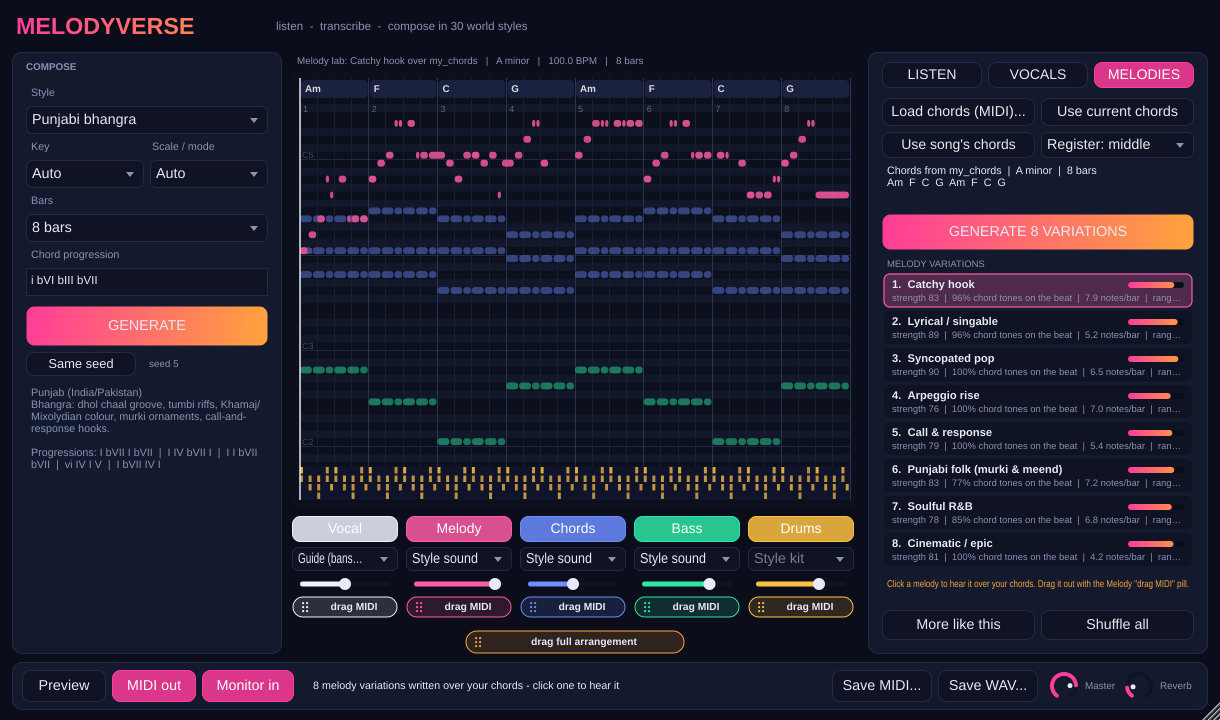
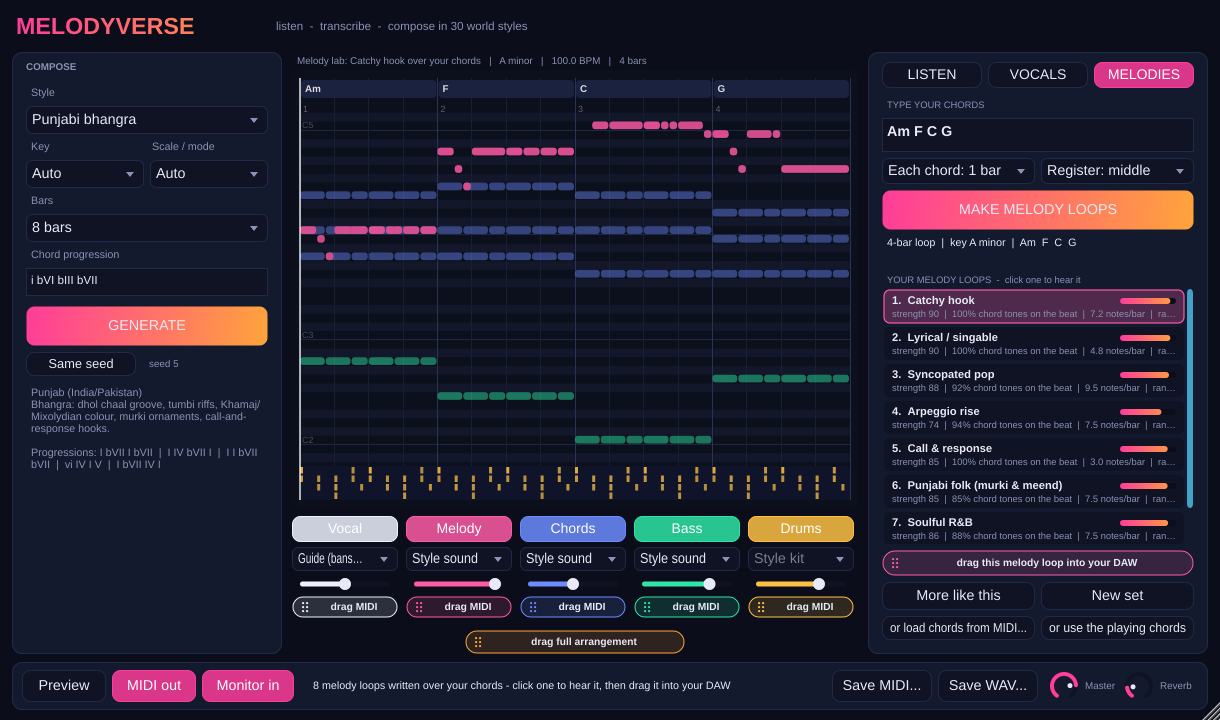
Melodies tab: type your chords, get melody loops
- Type a chord progression (chord names or roman numerals), pick how long
  each chord lasts, press MAKE MELODY LOOPS: 8 loops in different styles
- Loops are laid out to whole bars; key is read from the chords
- 'drag this melody loop' pill, simpler layout with MIDI upload as an
  optional secondary button; the plugin now opens on the MELODIES tab
- Typed chords are saved with the project; plugin tests cover parsing,
  loop lengths, slash chords and bad input

Claude-Session: https://claude.ai/code/session_013ujgqaFdkccjE1jctw6TBK

diff --git a/plugin/source/PluginEditor.cpp b/plugin/source/PluginEditor.cpp
@@ -433,7 +433,6 @@ MelodyverseEditor::MelodyverseEditor (MelodyverseProcessor& p) : AudioProcessorE
     addAndMakeVisible (melodiesTab);
     loadChordsButton.setTooltip ("A MIDI file with your chord progression (block chords or arpeggios), exported from your DAW. You can also drop it on the plugin.");
     useCurrentButton.setTooltip ("Use the chords of what is playing now: a composed idea, a typed progression or a transcribed song");
-    useSongButton.setTooltip ("Use the chords heard in the song analysed in the LISTEN tab");
     loadChordsButton.onClick = [this] {
         chooser = std::make_unique<juce::FileChooser> ("Choose a chord progression MIDI file", juce::File(), "*.mid;*.midi");
         chooser->launchAsync (juce::FileBrowserComponent::openMode | juce::FileBrowserComponent::canSelectFiles, [this] (const juce::FileChooser& fc) {
@@ -441,7 +440,6 @@ MelodyverseEditor::MelodyverseEditor (MelodyverseProcessor& p) : AudioProcessorE
         });
     };
     useCurrentButton.onClick = [this] { proc.useCurrentChords(); };
-    useSongButton.onClick = [this] { proc.useSongChords(); };
     registerBox.addItem ("Register: low", 1);
     registerBox.addItem ("Register: middle", 2);
     registerBox.addItem ("Register: high", 3);
@@ -450,10 +448,6 @@ MelodyverseEditor::MelodyverseEditor (MelodyverseProcessor& p) : AudioProcessorE
     setupLabel (labInfo, "", 12.0f, col::text);
     labInfo.setJustificationType (juce::Justification::topLeft);
     setupLabel (variationsLabel, "MELODY VARIATIONS", 10.5f);
-    setupLabel (labHint, "", 11.0f, col::accentB);
-    labHint.setJustificationType (juce::Justification::topLeft);
-    generateVariationsButton.getProperties().set ("accent", true);
-    generateVariationsButton.onClick = [this] { proc.generateVariations (false); };
     moreLikeButton.setTooltip ("8 new takes in the character of the selected melody");
     moreLikeButton.onClick = [this] { proc.generateVariations (true); };
     shuffleButton.setTooltip ("8 fresh melodies, one of each character");
@@ -462,9 +456,27 @@ MelodyverseEditor::MelodyverseEditor (MelodyverseProcessor& p) : AudioProcessorE
     variationList.setColour (juce::ListBox::backgroundColourId, juce::Colours::transparentBlack);
     variationList.setColour (juce::ListBox::outlineColourId, juce::Colours::transparentBlack);
     variationModel.onPick = [this] (int row) { proc.applyVariation (row); };
-    for (juce::Component* c : std::initializer_list<juce::Component*> { &loadChordsButton, &useCurrentButton, &useSongButton, &registerBox, &labInfo,
-                                                                          &variationsLabel, &labHint, &generateVariationsButton, &moreLikeButton,
-                                                                          &shuffleButton, &variationList })
+    // the simple path: type chords -> press one button -> melody loops
+    setupLabel (chordsLabel, "TYPE YOUR CHORDS", 10.5f);
+    chordsEditor.setFont (font (16.0f, true));
+    chordsEditor.setTextToShowWhenEmpty ("e.g.   Am  F  C  G", col::dim);
+    chordsEditor.setTooltip ("Any chords, separated by spaces: Am F C G  /  Dm7 G7 Cmaj7  /  F#m D A E  /  C G/B Am F");
+    chordsEditor.onReturnKey = [this] { makeLoops(); };
+    chordLengthBox.addItem ("Each chord: 1 bar", 4);
+    chordLengthBox.addItem ("Each chord: 2 bars", 8);
+    chordLengthBox.addItem ("Each chord: half bar", 2);
+    chordLengthBox.setSelectedId (4, juce::dontSendNotification);
+    makeLoopsButton.getProperties().set ("accent", true);
+    makeLoopsButton.setTooltip ("Write 8 melody loops over your chords, each in a different style");
+    makeLoopsButton.onClick = [this] { makeLoops(); };
+    variationsLabel.setText ("YOUR MELODY LOOPS  -  click one to hear it", juce::dontSendNotification);
+    shuffleButton.setButtonText ("New set");
+    loadChordsButton.setButtonText ("or load chords from MIDI...");
+    useCurrentButton.setButtonText ("or use the playing chords");
+    dragLoop = std::make_unique<MidiDragHandle> ("drag this melody loop into your DAW", PianoRoll::partColour (0), [this] { return proc.writeMidiTemp (0); });
+    for (juce::Component* c : std::initializer_list<juce::Component*> { &loadChordsButton, &useCurrentButton, &registerBox, &labInfo,
+                                                                          &variationsLabel, &moreLikeButton, &shuffleButton, &variationList,
+                                                                          &chordsLabel, &chordsEditor, &chordLengthBox, &makeLoopsButton, dragLoop.get() })
         addChildComponent (c);
 
     // ---- parts ----
@@ -562,7 +574,7 @@ MelodyverseEditor::MelodyverseEditor (MelodyverseProcessor& p) : AudioProcessorE
 
     syncUiFromSettings();
     listenTab.setToggleState (true, juce::dontSendNotification);
-    showTab (! proc.getLabChords().empty() ? 2 : proc.getVocalReport().has_value() ? 1 : 0);
+    showTab (proc.getVocalReport().has_value() && proc.getLabChords().empty() ? 1 : 2);
     setResizable (true, true);
     setResizeLimits (1100, 660, 1900, 1250);
     setSize (1220, 720);
@@ -642,10 +654,12 @@ void MelodyverseEditor::refreshFromProcessor()
         registerBox.setSelectedId (proc.getLabRegister() + 2, juce::dontSendNotification);
         auto chords = proc.getLabChords();
         const bool haveChords = ! chords.empty();
-        generateVariationsButton.setEnabled (haveChords);
         shuffleButton.setEnabled (haveChords);
+        dragLoop->setEnabled (proc.getLabSelected() >= 0);
+        if (! chordsEditor.hasKeyboardFocus (true) && chordsEditor.getText() != proc.settings.labText)
+            chordsEditor.setText (proc.settings.labText, false);
+        chordLengthBox.setSelectedId ((int) proc.settings.labBeatsPerChord, juce::dontSendNotification);
         moreLikeButton.setEnabled (haveChords && proc.getLabSelected() >= 0);
-        useSongButton.setEnabled (proc.getAnalysis().has_value());
         if (haveChords)
         {
             auto key = proc.getLabKey();
@@ -661,18 +675,11 @@ void MelodyverseEditor::refreshFromProcessor()
                 names << (names.isEmpty() ? "" : "  ") << c.chord->name (key.prefersFlats());
                 last = c.chord;
             }
-            labInfo.setText ("Chords from " + proc.getLabSource() + "  |  " + juce::String (key.name()) + "  |  " + juce::String ((int) std::ceil (end / 4.0 - 1e-6))
-                                 + " bars\n" + names,
+            labInfo.setText (juce::String ((int) std::ceil (end / 4.0 - 1e-6)) + "-bar loop  |  key " + juce::String (key.name()) + "  |  " + names,
                              juce::dontSendNotification);
-            labHint.setText ("Click a melody to hear it over your chords. Drag it out with the Melody \"drag MIDI\" pill.", juce::dontSendNotification);
         }
         else
-        {
-            labInfo.setText ("Bring a chord progression: drop a MIDI file of your chords here (block chords or arpeggios), "
-                             "or use the chords already in the plugin.",
-                             juce::dontSendNotification);
-            labHint.setText ({}, juce::dontSendNotification);
-        }
+            labInfo.setText ("Type the chords you want, press MAKE MELODY LOOPS, and pick the loop you like.", juce::dontSendNotification);
     }
 
     // vocals
@@ -770,6 +777,16 @@ void MelodyverseEditor::timerCallback()
     if (proc.isBusy()) repaint (progressArea);
 }
 
+void MelodyverseEditor::makeLoops()
+{
+    if (chordsEditor.getText().trim().isNotEmpty())
+        proc.useTypedChords (chordsEditor.getText(), chordLengthBox.getSelectedId() > 0 ? chordLengthBox.getSelectedId() : 4);
+    else if (! proc.getLabChords().empty())
+        proc.generateVariations (false);
+    else
+        proc.useTypedChords ({}, 4);  // shows the "type your chords" hint
+}
+
 void MelodyverseEditor::showTab (int which)
 {
     tab = juce::jlimit (0, 2, which);
@@ -780,9 +797,9 @@ void MelodyverseEditor::showTab (int which)
     for (juce::Component* c : std::initializer_list<juce::Component*> { &loadVocalButton, &recordVocalButton, &vocalReportText, &progressionsLabel,
                                                                           &progressionList, &ideaBox, &newIdeaButton, &vocalHint })
         c->setVisible (tab == 1);
-    for (juce::Component* c : std::initializer_list<juce::Component*> { &loadChordsButton, &useCurrentButton, &useSongButton, &registerBox, &labInfo,
-                                                                          &variationsLabel, &labHint, &generateVariationsButton, &moreLikeButton,
-                                                                          &shuffleButton, &variationList })
+    for (juce::Component* c : std::initializer_list<juce::Component*> { &loadChordsButton, &useCurrentButton, &registerBox, &labInfo,
+                                                                          &variationsLabel, &moreLikeButton, &shuffleButton, &variationList,
+                                                                          &chordsLabel, &chordsEditor, &chordLengthBox, &makeLoopsButton, dragLoop.get() })
         c->setVisible (tab == 2);
 }
 
@@ -916,22 +933,26 @@ void MelodyverseEditor::resized()
         {
             auto m = listenArea.reduced (14).withTrimmedTop (32);
             auto mrow = [&m] (int h) { auto x = m.removeFromTop (h); m.removeFromTop (6); return x; };
-            auto r1 = mrow (28);
-            loadChordsButton.setBounds (r1.removeFromLeft (r1.getWidth() / 2 - 3));
-            r1.removeFromLeft (6);
-            useCurrentButton.setBounds (r1);
+            chordsLabel.setBounds (mrow (14));
+            chordsEditor.setBounds (mrow (34));
             auto r2 = mrow (26);
-            useSongButton.setBounds (r2.removeFromLeft (r2.getWidth() / 2 - 3));
+            chordLengthBox.setBounds (r2.removeFromLeft (r2.getWidth() / 2 - 3));
             r2.removeFromLeft (6);
             registerBox.setBounds (r2);
-            labInfo.setBounds (mrow (44));
-            generateVariationsButton.setBounds (mrow (36));
-            auto bottomRow = m.removeFromBottom (30);
+            makeLoopsButton.setBounds (mrow (40));
+            labInfo.setBounds (mrow (30));
+            auto extras = m.removeFromBottom (24);
+            loadChordsButton.setBounds (extras.removeFromLeft (extras.getWidth() / 2 - 3));
+            extras.removeFromLeft (6);
+            useCurrentButton.setBounds (extras);
+            m.removeFromBottom (6);
+            auto bottomRow = m.removeFromBottom (28);
             moreLikeButton.setBounds (bottomRow.removeFromLeft (bottomRow.getWidth() / 2 - 3));
             bottomRow.removeFromLeft (6);
             shuffleButton.setBounds (bottomRow);
-            m.removeFromBottom (4);
-            labHint.setBounds (m.removeFromBottom (28));
+            m.removeFromBottom (6);
+            dragLoop->setBounds (m.removeFromBottom (26));
+            m.removeFromBottom (6);
             variationsLabel.setBounds (m.removeFromTop (16));
             variationList.setBounds (m);
         }

diff --git a/plugin/source/PluginProcessor.cpp b/plugin/source/PluginProcessor.cpp
@@ -698,6 +698,38 @@ void MelodyverseProcessor::setLabChords (std::vector<mv::ChordEvent> timeline, m
     ++version;
 }
 
+bool MelodyverseProcessor::useTypedChords (const juce::String& textIn, double beatsPerChord)
+{
+    const auto text = textIn.trim();
+    settings.labText = text;
+    settings.labBeatsPerChord = beatsPerChord;
+    if (text.isEmpty()) { setStatus ("Type your chords first, e.g.  Am F C G"); return false; }
+    std::vector<mv::Chord> chords;
+    const bool romans = ! juce::CharacterFunctions::isLetter (text[0]) || ! juce::String ("ABCDEFG").containsChar (text[0]);
+    const mv::Style st = mv::getStyle (settings.style.toStdString());
+    const mv::Key romanKey = currentKey (st);
+    try { chords = mv::parseProgression (text.toStdString(), romanKey); }
+    catch (const std::exception&)
+    {
+        setStatus ("Couldn't read \"" + text + "\". Type chord names like  Am F C G  (or  Dm7 G7 Cmaj7,  F#m D A E)");
+        return false;
+    }
+    if (chords.empty()) { setStatus ("Type your chords first, e.g.  Am F C G"); return false; }
+    // lay the chords out, repeating until the loop is a whole number of bars
+    std::vector<mv::ChordEvent> tl;
+    double t = 0;
+    for (int rep = 0; rep < 4 && (rep == 0 || std::fmod (t, 4.0) > 1e-6); ++rep)
+        for (auto& c : chords)
+        {
+            tl.push_back ({ t, beatsPerChord, c });
+            t += beatsPerChord;
+        }
+    const mv::Key key = romans ? romanKey : mv::keyFromChords (tl);
+    setLabChords (tl, key, 0, "your chords");
+    generateVariations (false);
+    return true;
+}
+
 bool MelodyverseProcessor::loadChordMidi (const juce::File& file)
 {
     juce::FileInputStream in (file);
@@ -786,8 +818,8 @@ void MelodyverseProcessor::generateVariations (bool moreLikeSelected)
         labSelected = -1;
     }
     applyVariation (0);
-    setStatus (focus >= 0 ? "8 new takes of \"" + juce::String (mv::melodyCharacters()[(size_t) focus].name) + "\" - click one to hear it"
-                          : juce::String ("8 melody variations written over your chords - click one to hear it"));
+    setStatus (focus >= 0 ? "8 new \"" + juce::String (mv::melodyCharacters()[(size_t) focus].name) + "\" loops - click one to hear it"
+                          : juce::String ("8 melody loops written over your chords - click one to hear it, then drag it into your DAW"));
 }
 
 void MelodyverseProcessor::applyVariation (int index)
@@ -940,6 +972,8 @@ void MelodyverseProcessor::getStateInformation (juce::MemoryBlock& destData)
     st.setProperty ("seed", (juce::int64) settings.seed, nullptr);
     st.setProperty ("progression", settings.progression, nullptr);
     st.setProperty ("quantize", settings.quantize, nullptr);
+    st.setProperty ("labText", settings.labText, nullptr);
+    st.setProperty ("labBeatsPerChord", settings.labBeatsPerChord, nullptr);
     for (int p = 0; p < mv::kNumParts; ++p) st.setProperty ("inst" + juce::String (p), settings.instruments[(size_t) p], nullptr);
     root.appendChild (st, nullptr);
     {
@@ -983,6 +1017,8 @@ void MelodyverseProcessor::setStateInformation (const void* data, int sizeInByte
         settings.seed = (juce::uint32) (juce::int64) st.getProperty ("seed", 1);
         settings.progression = st.getProperty ("progression", "").toString();
         settings.quantize = st.getProperty ("quantize", 16);
+        settings.labText = st.getProperty ("labText", "").toString();
+        settings.labBeatsPerChord = st.getProperty ("labBeatsPerChord", 4.0);
         for (int i = 0; i < mv::kNumParts; ++i) settings.instruments[(size_t) i] = st.getProperty ("inst" + juce::String (i), "").toString();
     }
     auto an = root.getChildWithName ("Analysis");

diff --git a/plugin/tests/plugin_tests.cpp b/plugin/tests/plugin_tests.cpp
@@ -311,6 +311,23 @@ int main (int argc, char** argv)
         if (restored.size() == takes.size())
             for (size_t i = 0; i < takes.size(); ++i) CHECK (restored[i].notes.size() == takes[i].notes.size());
         CHECK (q.getLabChords().size() == chords.size());
+        // the simple path: type the chords
+        CHECK (p.useTypedChords ("Dm Bb F C", 4));
+        auto typed = p.getLabChords();
+        CHECK (typed.size() == 4 && typed[1].chord->name (true) == "Bb" && typed[3].start == 12.0);
+        CHECK (p.getLabKey().name() == "D minor");
+        CHECK (p.getVariations().size() == 8 && p.getLabSelected() == 0);
+        CHECK (p.getScore().lengthBeats == 16.0);  // a 4-bar melody loop
+        CHECK (p.useTypedChords ("C G Am", 4));     // 3 one-bar chords -> a 3-bar loop
+        CHECK (p.getLabChords().size() == 3);
+        CHECK (p.useTypedChords ("F#m D A E", 2));  // half-bar chords -> a 2-bar loop
+        CHECK (p.getLabChords().size() == 4 && p.getScore().lengthBeats == 8.0);
+        CHECK (p.useTypedChords ("C G/B Am7 Fmaj7", 4));
+        CHECK (p.getLabChords()[1].chord->bass == 11);
+        CHECK (! p.useTypedChords ("Hello world", 4));
+        CHECK (p.getStatus().startsWith ("Couldn't read"));
+        CHECK (! p.useTypedChords ("   ", 4));
+        p.settings.style = "punjabi_bhangra";
         p.generateVariations (false);  // back to one of each character for the screenshot
         CHECK (p.useCurrentChords());  // the arrangement's own chords work as a source too
         CHECK (p.getVariations().size() == 8);
@@ -330,7 +347,7 @@ int main (int argc, char** argv)
             me->showTab (1);
             for (int i = 0; i < 5; ++i) juce::MessageManager::getInstance()->runDispatchLoopUntil (40);
             snapshot (*ed, shots, "melodyverse_vocals");
-            p.loadChordMidi (tmp.getChildFile ("my_chords.mid"));
+            p.useTypedChords ("Am F C G", 4);
             me->showTab (2);
             for (int i = 0; i < 5; ++i) juce::MessageManager::getInstance()->runDispatchLoopUntil (40);
             snapshot (*ed, shots, "melodyverse_melodies");

diff --git a/plugin/source/PluginEditor.h b/plugin/source/PluginEditor.h
@@ -113,10 +113,16 @@ private:
 
     // melody lab
     juce::TextButton melodiesTab { "MELODIES" };
-    juce::TextButton loadChordsButton { "Load chords (MIDI)..." }, useCurrentButton { "Use current chords" }, useSongButton { "Use song's chords" };
+    juce::TextButton loadChordsButton { "Load chords (MIDI)..." }, useCurrentButton { "Use current chords" };
     juce::ComboBox registerBox;
-    juce::Label labInfo, variationsLabel, labHint;
-    juce::TextButton generateVariationsButton { "GENERATE 8 VARIATIONS" }, moreLikeButton { "More like this" }, shuffleButton { "Shuffle all" };
+    juce::Label labInfo, variationsLabel;
+    juce::TextButton moreLikeButton { "More like this" }, shuffleButton { "Shuffle all" };
+    juce::Label chordsLabel;
+    juce::TextEditor chordsEditor;
+    juce::ComboBox chordLengthBox;
+    juce::TextButton makeLoopsButton { "MAKE MELODY LOOPS" };
+    std::unique_ptr<MidiDragHandle> dragLoop;
+    void makeLoops();
     VariationList variationModel;
     juce::ListBox variationList { "variations", &variationModel };
 

diff --git a/plugin/source/PluginProcessor.h b/plugin/source/PluginProcessor.h
@@ -55,6 +55,8 @@ public:
         juce::String progression;   // "" = style default
         int quantize = 16;          // 0 = off
         std::array<juce::String, mv::kNumParts> instruments;  // "" = style default
+        juce::String labText;       // chords typed in the MELODIES tab, e.g. "Am F C G"
+        double labBeatsPerChord = 4;
     };
     Settings settings;
 
@@ -79,6 +81,7 @@ public:
     juce::String getVocalLabel() const;
 
     // ---- melody lab: many melodies over one chord progression ----
+    bool useTypedChords (const juce::String& text, double beatsPerChord);  // "Am F C G" or "i bVI bIII bVII"
     bool loadChordMidi (const juce::File& file);   // read chords (and key) from a MIDI file
     bool useCurrentChords();                       // the arrangement's chords (typed, generated or transcribed)
     bool useSongChords();                          // chords heard in the analysed song

diff --git a/README.md b/README.md
@@ -111,6 +111,7 @@ On the synthetic test songs in `tests/` (known ground truth), it recovers tempo 
   - **Shape:** phrases, breaths and contour, the repeating **hook**, tempo, swing and dynamics.
   - **Chords:** it then ranks the **top 5 chord progressions** that fit the singing bar by bar. One is tailor-made; the rest come from Punjabi sad (Kafi), bhangra (Khamaj), Punjabi pop, Punjabi R&B, Sufi, lo-fi and cinematic loops.
   - **Arrangement:** click one to hear a full arrangement under the vocal guide, with **answer phrases** between your lines or a **harmony** a 3rd above or 6th below.
+- **Melody loops in 3 steps:** open the **MELODIES** tab, type your chords (e.g. `Am F C G`, `Dm7 G7 Cmaj7`, `C G/B Am F`), choose how long each chord lasts, and press **MAKE MELODY LOOPS**. You get 8 melody loops in different styles; click one to hear it and drag it into your DAW.
 - **Melodies tab (Melody Lab):** drop a **MIDI file of your chord progression** (block chords or arpeggios, inversions included), or use the chords already in the plugin. Melodyverse reads the chords and key, then writes **8 different melodies** over them, one per character: Catchy hook, Lyrical/singable, Syncopated pop, Arpeggio rise, Call & response, Punjabi folk (murki & meend), Soulful R&B and Cinematic.
   - **How they're written:** each melody is built from motifs that are repeated, sequenced to follow the chords, inverted and varied. Phrases are shaped as question and answer with a planned climax. Strong beats land on guide tones with smooth voice leading, and weak beats use passing, neighbour and approach notes, with anticipations across the bar line.
   - **Best of several:** several candidates are written per character and the strongest is kept, rated on chord tones on the beat, singability, leap recovery, motif coherence, range and the ending.
